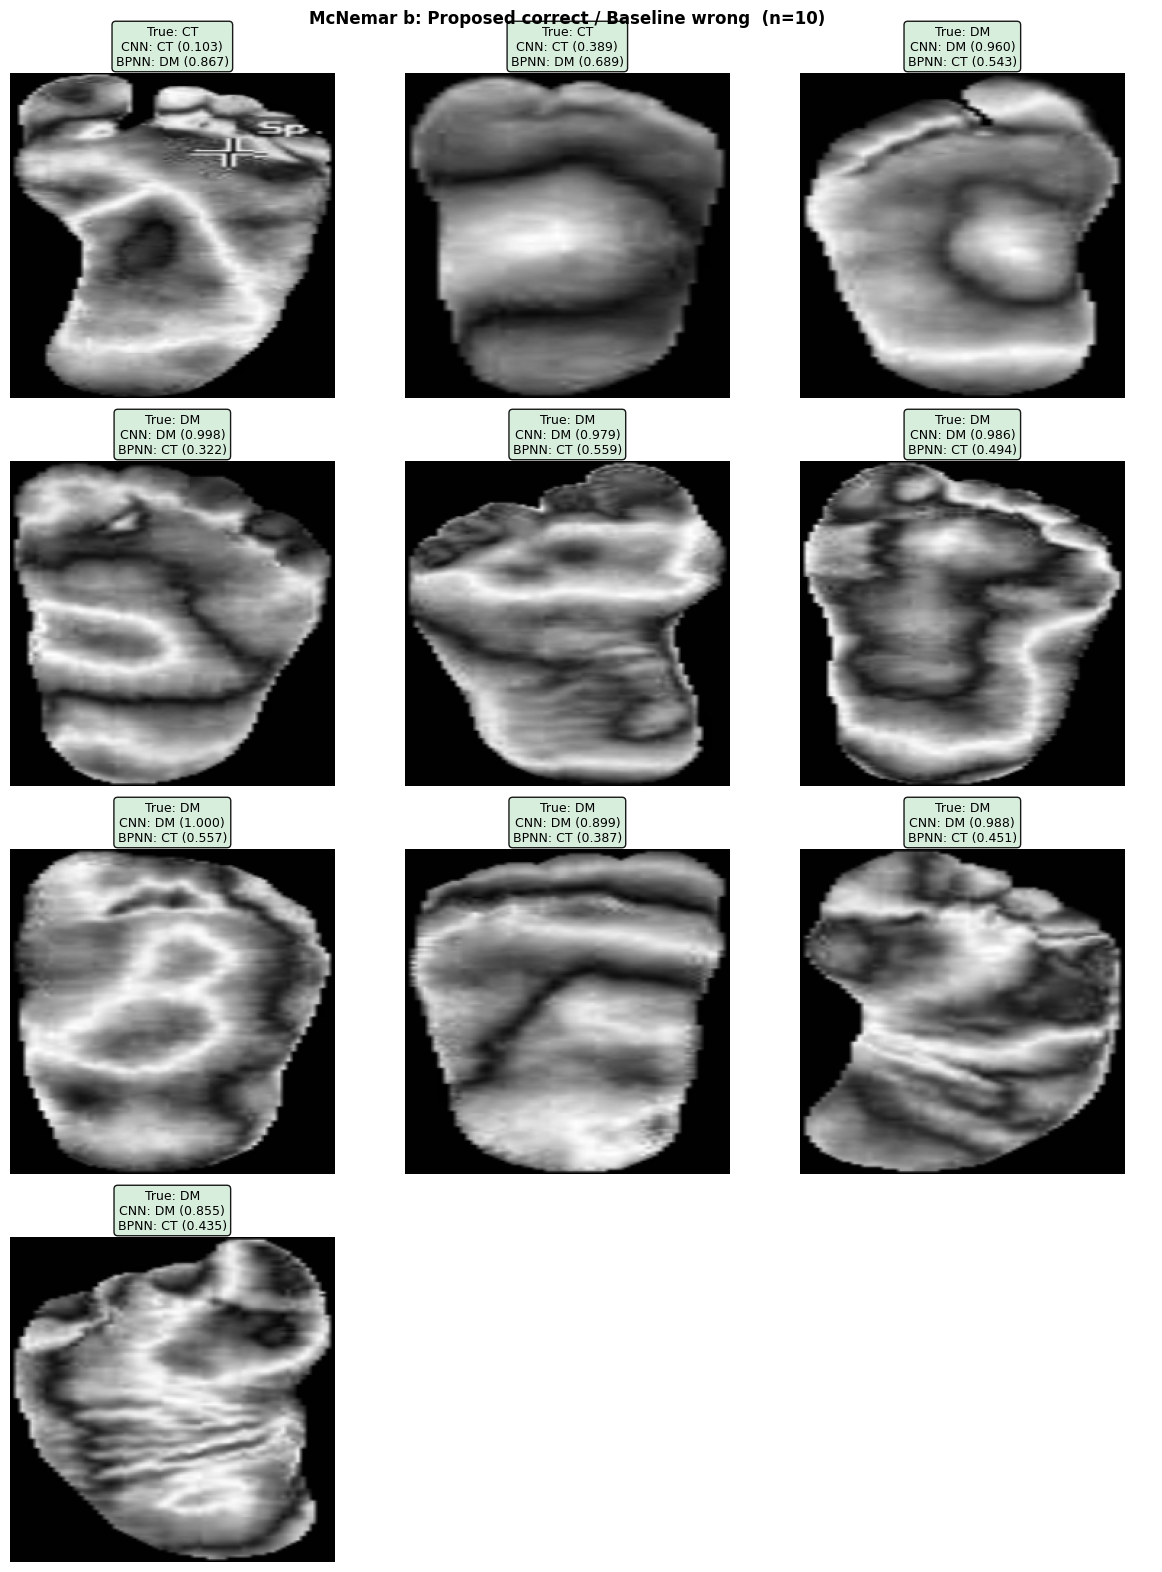
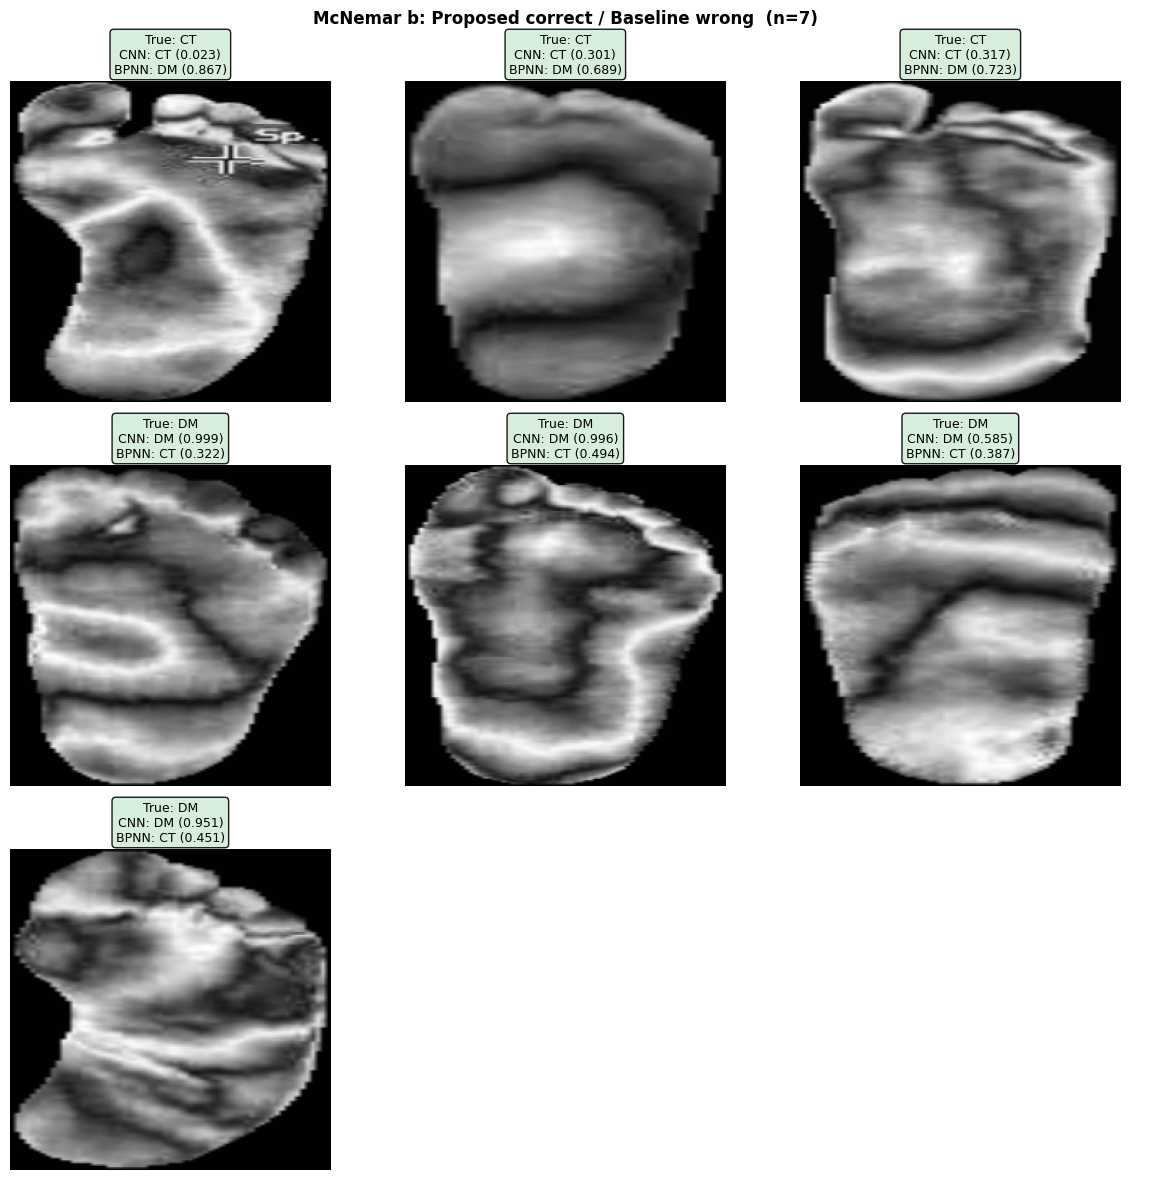
Add RQ1 ROC curve plot to notebook, fix avg_epochs merge, update thr=0.5 results
- Add ROC curve cell (cell [15]) to notebook RQ1 section showing combined 5-fold
  curves for all three backbones
- Fix dfu_common.py avg_epochs saving to merge with existing per_fold data so
  partial re-runs accumulate all 5 folds correctly
- Update final_eval_results.json and rq3_results.json to thr=0.5 values
- Update McNemar b/c case images (b=7, c=2 at thr=0.5)

diff --git a/dfu_common.py b/dfu_common.py
@@ -548,23 +548,31 @@ def train_one_model(model_name: str, base_model_fn, log):
     np.savez(val_preds_path, **fold_val_preds)
     log(f"✓ Val predictions → {val_preds_path}")
 
-    # Save average stopping epochs (used by rq3 for final retraining)
+    # Save average stopping epochs (used by final_evaluation for retraining)
     avg_epochs_path = os.path.join(ckpt_dir, f"{model_name}_avg_epochs.json")
     if fold_epochs:
-        p1_epochs = [v['phase1'] for v in fold_epochs.values() if v['phase1'] is not None]
-        p2_epochs = [v['phase2'] for v in fold_epochs.values() if v['phase2'] is not None]
+        # Merge with existing per_fold data so partial re-runs accumulate correctly
+        merged = {}
+        if os.path.exists(avg_epochs_path):
+            with open(avg_epochs_path) as _f:
+                _existing = json.load(_f)
+            merged = _existing.get('per_fold', {})
+        merged.update(fold_epochs)  # new data overwrites same-key entries
+
+        p1_epochs = [v['phase1'] for v in merged.values() if v.get('phase1') is not None]
+        p2_epochs = [v['phase2'] for v in merged.values() if v.get('phase2') is not None]
         avg_p1 = int(round(np.mean(p1_epochs))) if p1_epochs else None
         avg_p2 = int(round(np.mean(p2_epochs))) if p2_epochs else None
         epochs_data = {
-            'per_fold':    fold_epochs,
-            'avg_phase1':  avg_p1,
-            'avg_phase2':  avg_p2,
-            'n_folds_used': len(fold_epochs),
+            'per_fold':     merged,
+            'avg_phase1':   avg_p1,
+            'avg_phase2':   avg_p2,
+            'n_folds_used': len(merged),
         }
         with open(avg_epochs_path, 'w') as f:
             json.dump(epochs_data, f, indent=2)
         log(f"✓ Avg stopping epochs (phase1={avg_p1}, phase2={avg_p2}, "
-            f"from {len(fold_epochs)} folds) → {avg_epochs_path}")
+            f"from {len(merged)} folds) → {avg_epochs_path}")
     elif not os.path.exists(avg_epochs_path):
         log(f"⚠ All folds loaded from checkpoint — {avg_epochs_path} not written. "
             f"Delete fold checkpoints and re-run to regenerate it.")